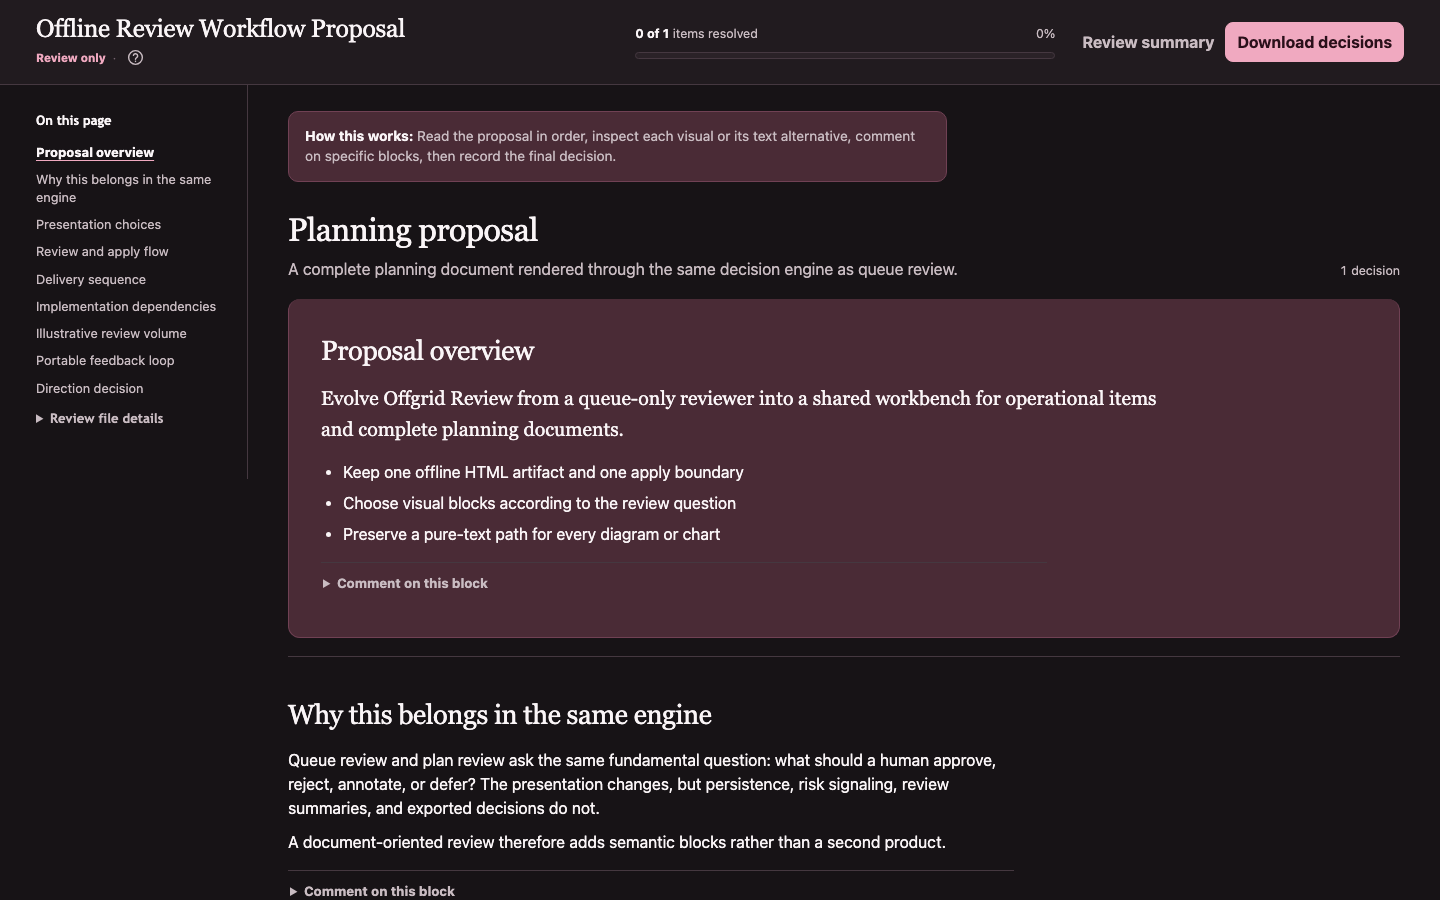
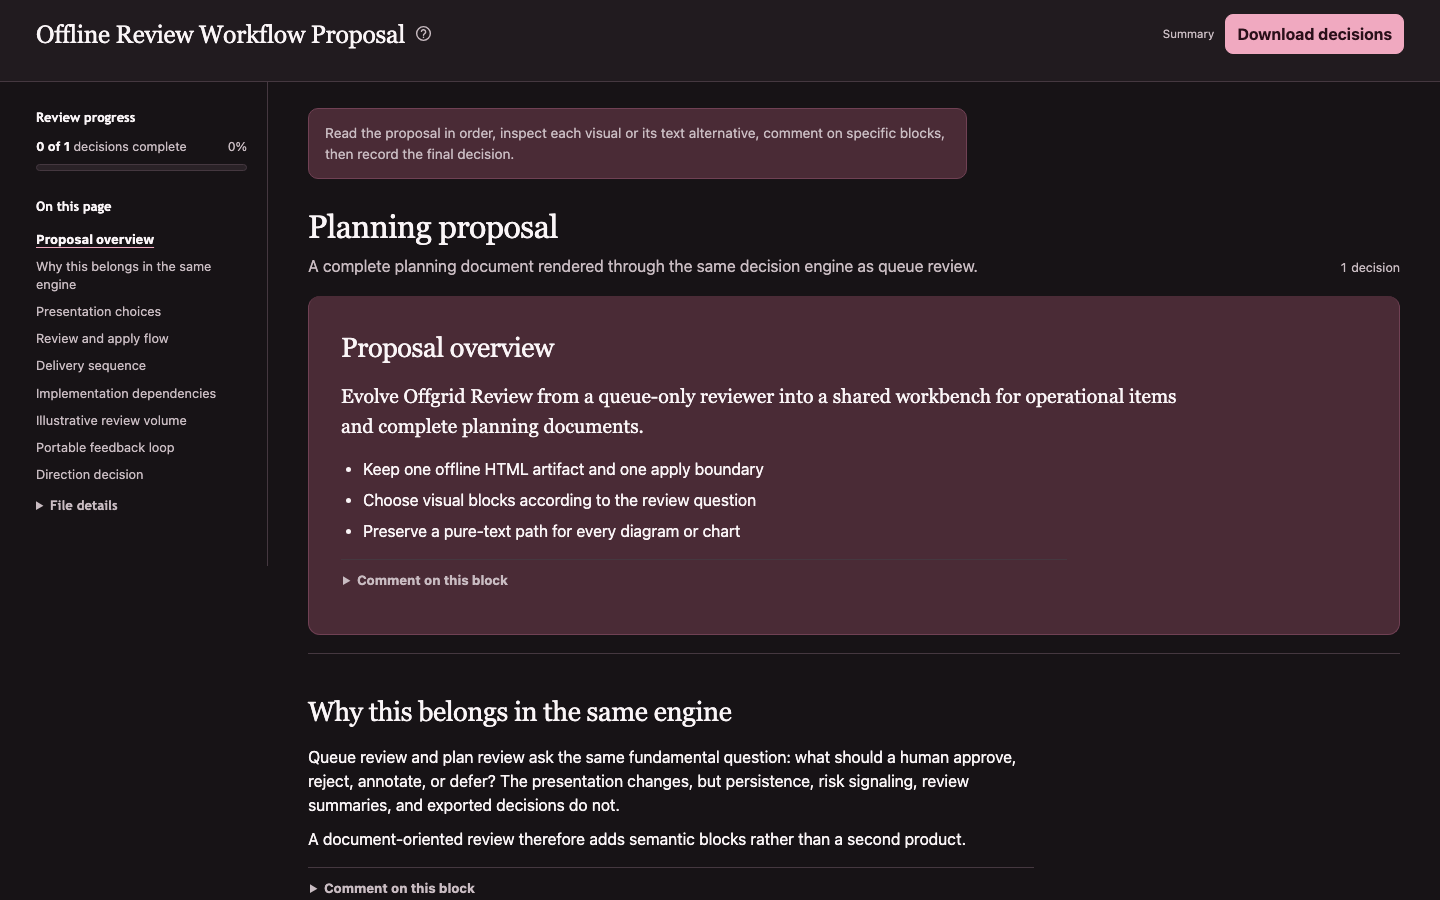
docs: document accessible workbench workflow

diff --git a/README.md b/README.md
@@ -49,8 +49,10 @@ question in chat.
 ### 3. Review and return the decisions
 
 Open the HTML file, compare the evidence, choose every compatible action, and
-add comments where needed. Use **Copy decisions** or **Download decisions** to
-return the JSON to your agent.
+add notes where needed. If the available actions miss your answer, add a
+decision note instead. Either an action or a substantive decision note marks the
+decision complete. Use **Copy decisions** or **Download decisions** to return
+the JSON to your agent.
 
 The apply pass should re-fetch current state, reject stale inputs, and perform
 only the actions recorded in that decision file.
@@ -80,9 +82,10 @@ pass handles mutation.
 ### Decision batches
 
 Reconciliation, triage, classification, prioritization, and other work with many
-related decisions can be grouped into one review. Each item can show evidence,
-comparisons, recommendations, risk, reversibility, compatible actions, and
-required rationale.
+related decisions can be grouped into one review. Queues divide a large review
+into meaningful categories that share context, a question, and an action set.
+Each decision can show evidence, comparisons, recommendations, risk,
+reversibility, compatible actions, and required rationale.
 
 ### Proposals and plans
 
@@ -184,6 +187,8 @@ for the complete input and decision formats.
 
 ## More screenshots
 
+<!-- markdownlint-disable MD033 -->
+
 <details>
 <summary>Decision batch, mobile, and contents navigation examples</summary>
 
@@ -201,20 +206,32 @@ for the complete input and decision formats.
 
 </details>
 
+<!-- markdownlint-enable MD033 -->
+
 ## Reference
 
-- [Usage guide](https://github.com/jd-santos/offgrid-review/blob/main/skills/offgrid-review/reference/usage.md): commands, review
-  specifications, interaction behavior, and file-viewer constraints
-- [Artifact contract](https://github.com/jd-santos/offgrid-review/blob/main/skills/offgrid-review/reference/artifact-contract.md):
-  source data, review specs, generated artifacts, annotations, and decision JSON
-- [Apply-pass guide](https://github.com/jd-santos/offgrid-review/blob/main/skills/offgrid-review/reference/apply-pass.md): verification,
-  mutation boundaries, error handling, and reporting
-- [Product](https://github.com/jd-santos/offgrid-review/blob/main/skills/offgrid-review/PRODUCT.md): purpose, users, constraints, and
-  product principles
-- [Design](https://github.com/jd-santos/offgrid-review/blob/main/skills/offgrid-review/DESIGN.md): interface tokens, component rules,
-  responsive behavior, and accessibility expectations
-- [Release guide](https://github.com/jd-santos/offgrid-review/blob/main/docs/releasing.md): package checks and Trusted Publishing setup
-- [Changelog](https://github.com/jd-santos/offgrid-review/blob/main/CHANGELOG.md): notable project changes
+- [Usage guide][usage-guide]: commands, review specifications, interaction
+  behavior, and file-viewer constraints
+- [Artifact contract][artifact-contract]: source data, review specs, generated
+  artifacts, annotations, and decision JSON
+- [Apply-pass guide][apply-pass]: verification, mutation boundaries, error
+  handling, and reporting
+- [Product][product]: purpose, users, constraints, and product principles
+- [Design][design]: interface tokens, component rules, responsive behavior, and
+  accessibility expectations
+- [Accessibility checks][accessibility]: WCAG target, automated coverage, and
+  manual release checks
+- [Release guide][release-guide]: package checks and Trusted Publishing setup
+- [Changelog][changelog]: notable project changes
+
+[usage-guide]: https://github.com/jd-santos/offgrid-review/blob/main/skills/offgrid-review/reference/usage.md
+[artifact-contract]: https://github.com/jd-santos/offgrid-review/blob/main/skills/offgrid-review/reference/artifact-contract.md
+[apply-pass]: https://github.com/jd-santos/offgrid-review/blob/main/skills/offgrid-review/reference/apply-pass.md
+[product]: https://github.com/jd-santos/offgrid-review/blob/main/skills/offgrid-review/PRODUCT.md
+[design]: https://github.com/jd-santos/offgrid-review/blob/main/skills/offgrid-review/DESIGN.md
+[accessibility]: https://github.com/jd-santos/offgrid-review/blob/main/docs/accessibility.md
+[release-guide]: https://github.com/jd-santos/offgrid-review/blob/main/docs/releasing.md
+[changelog]: https://github.com/jd-santos/offgrid-review/blob/main/CHANGELOG.md
 
 ## Development
 

diff --git a/docs/workbench-ux-accessibility-pass.md b/docs/workbench-ux-accessibility-pass.md
@@ -1,0 +1,78 @@
+# Workbench UX and accessibility pass
+
+## Problem
+
+The generated workbench did not explain the relationship between the review,
+its queues, and its individual decisions clearly enough. Header progress
+repeated queue information, low-priority utilities competed with export, and
+navigation controls appeared after the queue list even though finding the next
+relevant decision is the primary task.
+
+Some wording was mechanical or redundant. In particular, **Review only**,
+**resolved**, and **previous unresolved** added weight without helping the
+reviewer understand what to do. The completion model also ignored notes, even
+though a note can be the complete answer when none of the supplied actions fit.
+
+The same generator serves decision batches, document reviews, desktop layouts,
+and constrained mobile viewers. The pass needed to improve the shared system
+rather than optimize one example artifact.
+
+## Chosen approach
+
+Keep the existing `queues` concept and artifact schema, but align the interface
+with the reviewer’s workflow:
+
+1. Treat the generated file as the review, each queue as a related group of
+   decisions, and each item or decision block as one decision.
+2. Put search, filters, and incomplete-decision navigation before queues.
+3. Remove redundant title metadata and reduce the weight of summary access.
+4. Move aggregate completion out of the header and into review navigation.
+5. Use **complete** and **needs a decision** instead of **resolved** and
+   **unresolved**.
+6. Count a selected action or substantive decision note as complete. Note-only
+   responses remain feedback rather than approved actions.
+7. Keep export as the only primary header action.
+8. Tell review authors to divide large evaluations into meaningful queues based
+   on shared context and questions, not arbitrary batches.
+9. Target WCAG 2.2 AA across desktop, mobile, light, dark, keyboard, focus,
+   status announcements, contrast, target size, text scaling, and reflow.
+
+## Rejected alternatives
+
+### Copy and spacing cleanup only
+
+A surface cleanup would be low risk, but it would leave the navigation hierarchy
+and large-review authoring model unclear.
+
+### Dedicated large-review mode
+
+Category overviews, resumable batches, and guided sequences may help with
+hundreds of decisions. Adding them without a representative large review would
+expand state and specification complexity before the interaction model is
+understood.
+
+## Acceptance criteria
+
+- Review, queue, and decision concepts are distinguishable in copy and
+  structure.
+- Search and incomplete-decision navigation precede queue navigation.
+- **Review only** is removed and summary is quieter than export.
+- Header progress no longer duplicates batch navigation progress.
+- Queue fractions use regular weight while aggregate progress carries emphasis.
+- A substantive note can complete a decision without selecting an action.
+- Reviewers can identify and navigate to decisions that still need an answer.
+- Queue and document examples reflow without clipping at narrow widths and 200
+  percent text size.
+- Keyboard focus is visible and predictable across panels, filters, navigation,
+  the mobile tray, and document contents.
+- Status and completion do not depend on color alone.
+- Light and dark theme text and control boundaries meet AA contrast thresholds.
+- Renderer and browser tests cover the revised contract.
+- Skill guidance, examples, documentation, and screenshots match the UI.
+
+## Outcome
+
+The shared renderer, runtime, tests, examples, skill, product and design
+contracts, accessibility reference, changelog, and screenshots now implement
+this approach. Manual VoiceOver, forced-colors, 400 percent zoom, and a
+representative 100-decision review remain bounded follow-ups in `TODO.md`.

diff --git a/docs/accessibility.md b/docs/accessibility.md
@@ -1,0 +1,82 @@
+# Accessibility checks
+
+Generated workbenches target WCAG 2.2 Level AA. This is an engineering target,
+not a certification claim. The renderer, browser runtime, themes, and release
+checks all share responsibility for meeting it.
+
+## Built-in behavior
+
+The generated HTML provides:
+
+- A skip link and named header, navigation, main, and complementary regions.
+- One page title followed by ordered section and decision headings.
+- Native checkboxes, radio buttons, selects, text fields, textareas, fieldsets,
+  and disclosures.
+- Visible labels, legends, instructions, completion text, risk text, and error
+  text.
+- Three-pixel focus outlines in light and dark themes.
+- `Alt+/` for search and `Alt+J` or `Alt+K` for incomplete-decision navigation.
+  Bare character shortcuts are not used.
+- Polite status updates for storage, filters, decision completion, progress, and
+  downloads. Conflicts use an alert.
+- A 24 by 24 CSS-pixel minimum target for controls, links, and disclosure
+  summaries. Checkbox and radio labels form part of the native control target.
+- Text and control-boundary contrast that meets the relevant 4.5:1 and 3:1
+  thresholds in both themes.
+- Layout reflow at a 320 CSS-pixel viewport and at 200 percent text size.
+- Reduced-motion handling for smooth scrolling, progress updates, tooltips,
+  trays, and notifications.
+- Text alternatives for every generated chart and diagram.
+
+Completion never relies on color alone. A decision reads **Needs a decision**,
+names its selected action, reports multiple actions, reports a note-only
+response, or identifies a conflict in text.
+
+## Automated coverage
+
+Run the renderer and browser checks:
+
+```bash
+uv run python -m unittest discover -s tests -p 'test_*.py'
+uv run --group test python -m unittest tests.browser.test_workbench
+```
+
+The current tests cover:
+
+- Accessible names for visible form controls.
+- Skip-link focus and focus return from summary and contents surfaces.
+- Modifier-key navigation and suppression of bare character shortcuts.
+- Focus placement below the sticky header.
+- Minimum pointer-target dimensions.
+- Light and dark text contrast plus control and focus-indicator contrast.
+- Reduced-motion styles.
+- Queue and document reflow with enlarged text.
+- Mobile contents and action-tray behavior.
+- Live progress semantics and note-only completion.
+
+These checks catch regressions in known components. They cannot prove that
+arbitrary agent-authored wording is clear or that every browser and
+assistive-technology combination behaves identically.
+
+## Manual release checks
+
+Before a stable release:
+
+1. Complete one queue review using only Tab, Shift+Tab, Enter, Space, Escape,
+   and the documented modifier shortcuts.
+2. Complete one document review using VoiceOver on macOS and Safari or Chrome.
+3. Verify the title, queue navigation, decision question, option descriptions,
+   state changes, notes, warnings, summary, and export controls are announced in
+   a useful order.
+4. Check light, dark, and forced-colors modes without relying on color to
+   identify selection, completion, risk, or errors.
+5. Check 320 CSS pixels, 200 percent text size, and browser zoom up to 400
+   percent for clipping or two-dimensional page scrolling.
+6. Confirm sticky header, summary panel, contents drawer, and mobile tray do not
+   cover the focused control.
+7. Review one large artifact with at least 100 decisions across several queues.
+   Confirm search, filters, queue progress, and previous or next navigation
+   remain understandable.
+
+Record failures in `TODO.md` with the affected criterion, browser, assistive
+technology, and generated example.

diff --git a/CHANGELOG.md b/CHANGELOG.md
@@ -1,5 +1,7 @@
 # Changelog
 
+<!-- markdownlint-disable MD024 -->
+
 All notable changes to this project will be documented in this file.
 
 The format is based on [Keep a Changelog](https://keepachangelog.com/).
@@ -24,9 +26,21 @@ This project does not currently declare a Semantic Versioning policy.
   hostile raw-text data, mobile document review, focus return, and text reflow.
 - Add generated desktop and mobile screenshots with a standard-library capture
   script.
+- Add a WCAG 2.2 AA accessibility contract, contrast checks, target-size checks,
+  keyboard regressions, and a manual release checklist.
 
 ### Changed
 
+- Reorder decision-batch navigation around search, completion filters, and
+  incomplete-decision movement before overall and per-queue progress.
+- Remove duplicate header progress and review-status text, reduce summary
+  emphasis, and use complete or needs-a-decision language throughout the
+  generated workbench.
+- Count a substantive decision note as a complete response when no supplied
+  action fits. Note-only responses still export as annotations and never as
+  approved actions.
+- Document how agents should divide large evaluations into meaningful queues
+  that share context, a question, and an action set.
 - Reframe the public quick start around the agent-to-human review workflow and
   use checked-in inputs for runnable CLI examples.
 - Reserve exact UVX version pins for reproducibility, use the unversioned PyPI
@@ -50,6 +64,11 @@ This project does not currently declare a Semantic Versioning policy.
 
 ### Fixed
 
+- Replace bare character shortcuts with modifier shortcuts so review navigation
+  does not interfere with assistive technology or text input.
+- Add a skip link, named decision regions, live completion semantics, current
+  queue state, 24 CSS-pixel targets, and AA control-boundary contrast in both
+  themes.
 - Prevent decisions from an older artifact from inflating progress or appearing
   in a regenerated review export.
 - Encode embedded JSON safely for HTML raw-text parsing so source strings such

diff --git a/TODO.md b/TODO.md
@@ -16,9 +16,14 @@
 
 ## Up Next
 
+- [ ] Manually validate queue and document reviews with VoiceOver, forced
+  colors, and 400% browser zoom [context: small]
+- [ ] Evaluate the category model with a representative 100-decision review
+  before adding batch-specific interactions [context: medium]
 - [ ] Run Ruff cleanup and decide whether Ruff belongs in CI
 - [ ] Show recommendation provenance and supporting evidence
-- [ ] Add operational risk, reversibility, evidence-strength, and ambiguity signals
+- [ ] Add operational risk, reversibility, evidence-strength, and ambiguity
+  signals
 - [ ] Add optional per-action confirmation friction
 - [ ] Import decision JSON with schema and snapshot compatibility checks
 
@@ -33,6 +38,11 @@
 
 ## Done
 
-- [x] Rearchitect and harden the pre-PyPI package, artifact contract, browser runtime, validation, accessibility, licensing, tests, and release automation
-- [x] Build the dependency-free Python CLI release candidate with UVX, CI, and a thin agent skill
-- [x] Publish the public README, generated screenshots, capture script, and changelog
+- [x] Redesign generated workbench hierarchy and accessibility (search-first
+  navigation, note completion, WCAG checks, docs, and screenshots)
+- [x] Rearchitect and harden the pre-PyPI package, artifact contract, browser
+  runtime, validation, accessibility, licensing, tests, and release automation
+- [x] Build the dependency-free Python CLI release candidate with UVX, CI, and a
+  thin agent skill
+- [x] Publish the public README, generated screenshots, capture script, and
+  changelog
